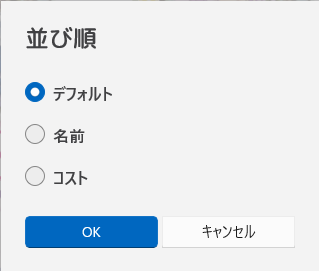
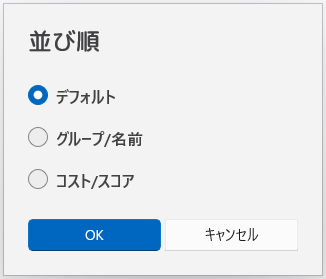
デッキソートダイアログの画像を変更

diff --git a/docs/Usage.md b/docs/Usage.md
@@ -245,13 +245,13 @@
 
 - デフォルトは収録商品とカード番号の順。
 
-### デッキ側ソートダイアログ
+### デッキソートダイアログ
 
 ![](images/index_deck_sort.png)
 
 - デフォルト: 収録商品とカード番号の順
-- 名前: メンバーはグループ->メンバーの順、ライブはグループ->五十音順
-- コスト: メンバーはコストの高い順、ライブはスコアの高い順
+- グループ/名前: メンバーはグループ->メンバーの順、ライブはグループ->五十音順
+- コスト/スコア: メンバーはコストの高い順、ライブはスコアの高い順
 
 ### デッキ表示ウィンドウ
 
